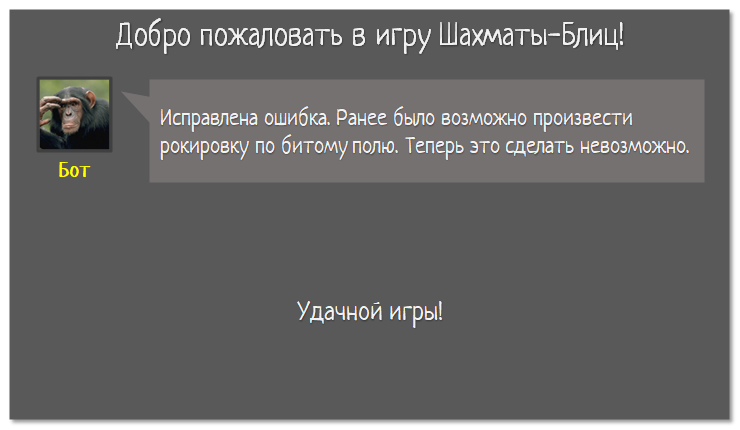
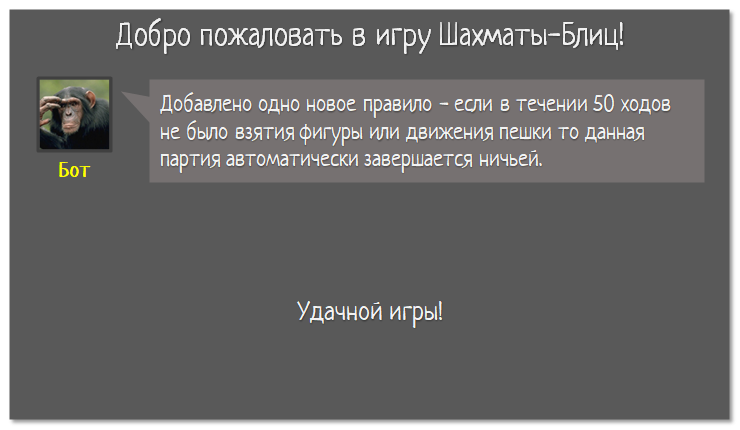
54h54h

Changed region(s): [[0.2176, 0.2116, 0.9324, 0.393]]

diff --git a/index.js b/index.js
@@ -1079,7 +1079,7 @@ var online_player = {
 		
 		
 		let res_db = {
-			'my_no_connection' : ['Потеряна связь!\nИспользуйте надежное интернет соединение.', LOSE],
+			'my_no_connection' 		: ['Потеряна связь!\nИспользуйте надежное интернет соединение.', LOSE],
 			'stalemate_to_opponent' : ['Пат!\nИгра закончилась ничьей.', DRAW],
 			'stalemate_to_player' 	: ['Пат!\nИгра закончилась ничьей.', DRAW],
 			'draw' 					: ['Игра закончилась ничьей.', DRAW],
@@ -1090,7 +1090,8 @@ var online_player = {
 			'opp_timeout' 			: ['Победа!\nСоперник не сделал ход.', WIN],
 			'my_timeout' 			: ['Поражение!\nУ вас закончилось время.', LOSE],
 			'opp_no_sync' 			: ['Похоже соперник не смог начать игру', NOSYNC],
-			'my_no_sync' 			: ['Похоже Вы не смогли начать игру', NOSYNC]			
+			'my_no_sync' 			: ['Похоже Вы не смогли начать игру', NOSYNC],
+			'draw_50' 				: ['Ничья!\nЗа последние 50 ходов не было взятий фигур и продвижения пешек', NOSYNC]	
 		}
 		
 		let res_info = res_db[final_state];
@@ -1232,7 +1233,7 @@ var bot_player = {
 	
 	stockfish_response : function (e) {
 		
-		console.log(e.data);		
+		//console.log(e.data);		
 		
 		if (e.data.substring(0, 8) !== 'bestmove')
 			return
@@ -1289,7 +1290,9 @@ var bot_player = {
 		if (final_state === 'checkmate_to_player')			
 			t = ['Поражение!\nВам поставили мат!',LOSE]		
 		
-	
+		if (final_state === 'draw_50')			
+			t = ['Ничья!',DRAW]		
+		
 		game.play_finish_sound(t[1]);
 		await big_message.show(t[0],'---)))---');
 		
@@ -1329,6 +1332,7 @@ var game={
 	player_under_check : 0,
 	opponent : {},
 	checker_is_moving : 0,
+	draw_50: 0,
 
 	activate: function(role, opponent) {
 
@@ -1360,6 +1364,9 @@ var game={
 		this.player_under_check = 0;
 		
 		game_res.resources.note.sound.play();
+		
+		//обновляем время без взятий и движения пешки
+		this.draw_50 = 0;
 			
 		
 		//инициируем все что связано с оппонентом
@@ -1661,6 +1668,22 @@ var game={
 		if (final_state === 'checkmate' || final_state === 'stalemate' )
 			this.opponent.stop(final_state + '_to_opponent');		
 		
+		//проверяем 50 ходов для ничьи		
+		if (my_role === 'slave') {
+			
+			let moves_notaken_nopawnmove = Math.floor(this.draw_50/2);			
+			console.log(moves_notaken_nopawnmove);
+			if (moves_notaken_nopawnmove >= 50) {
+				this.opponent.stop('draw_50');
+				return;				
+			}		
+
+			if (moves_notaken_nopawnmove === 30 || moves_notaken_nopawnmove === 35 || moves_notaken_nopawnmove === 40 || moves_notaken_nopawnmove >= 45)
+				add_message(`Ходов до ничьи: ${50-moves_notaken_nopawnmove}. Если не будет взятий или движения пешек.`)
+		}
+		
+		
+		
 		//обозначаем что я сделал ход и следовательно подтвердил согласие на игру
 		me_conf_play=1;
 
@@ -1694,6 +1717,8 @@ var game={
 			anim2.add(sf,{alpha:[1,0]}, false, 0.06,'linear');
 		}
 		
+		
+		
 		//подготавливаем данные для перестановки
 		let fig=board_func.get_checker_by_pos(move_data.x1,move_data.y1);
 		
@@ -1711,8 +1736,12 @@ var game={
 		if (pass_taken_pawn_pos_y !== 0)
 			eaten_figure = g_board[pass_taken_pawn_pos_y][x2];
 		
+		//увеличиваем количество ходов без взятия и движения пешек
+		this.draw_50++;
+		
 		if (eaten_figure!=='x') {
 			
+			this.draw_50 = 0;
 			gres.eaten.sound.play();
 			
 			if (my_eaten[eaten_figure] !== undefined) {
@@ -1734,6 +1763,9 @@ var game={
 			}
 		}
 		
+		//проверяем что это движение пешки
+		if (g_board[y1][x1] === 'p' || g_board[y1][x1] === 'P')
+			this.draw_50 = 0;
 		
 		//обновляем доску
 		g_board[y2][x2] = g_board[y1][x1];
@@ -1746,6 +1778,8 @@ var game={
 		if (move_data.pawn_replace !== undefined) 
 			g_board[y2][x2] = move_data.pawn_replace;	
 			
+			
+		
 		board_func.update_board();
 	},
 	
@@ -1871,14 +1905,27 @@ var game={
 		
 		//проверяем звершение игры
 		let final_state = board_func.check_fin(g_board,'w');		
-					
-	
+						
 		if (final_state === 'checkmate' || final_state === 'stalemate' ) {
 			this.opponent.stop(final_state + '_to_player');			
 			return;
 		}
+		
+		//проверяем 50 ходов для ничьи		
+		if (my_role === 'master') {
+			
+			let moves_notaken_nopawnmove = Math.floor(this.draw_50/2);			
+			console.log(moves_notaken_nopawnmove);
+			if (moves_notaken_nopawnmove >= 50) {
+				this.opponent.stop('draw_50');
+				return;				
+			}		
 
-
+			if (moves_notaken_nopawnmove === 30 || moves_notaken_nopawnmove === 35 || moves_notaken_nopawnmove === 40 || moves_notaken_nopawnmove >= 45)
+				add_message(`Ходов до ничьи: ${50-moves_notaken_nopawnmove}. Если не будет взятий или движения пешек.`)
+			
+		}
+		
 		//поверяем шах
 		if (final_state === 'check') {
 			add_message("Шах!");			
@@ -1887,6 +1934,8 @@ var game={
 			this.player_under_check = 0;
 		}
 		
+
+	
 	},
 		
 	play_finish_sound : function(result) {
